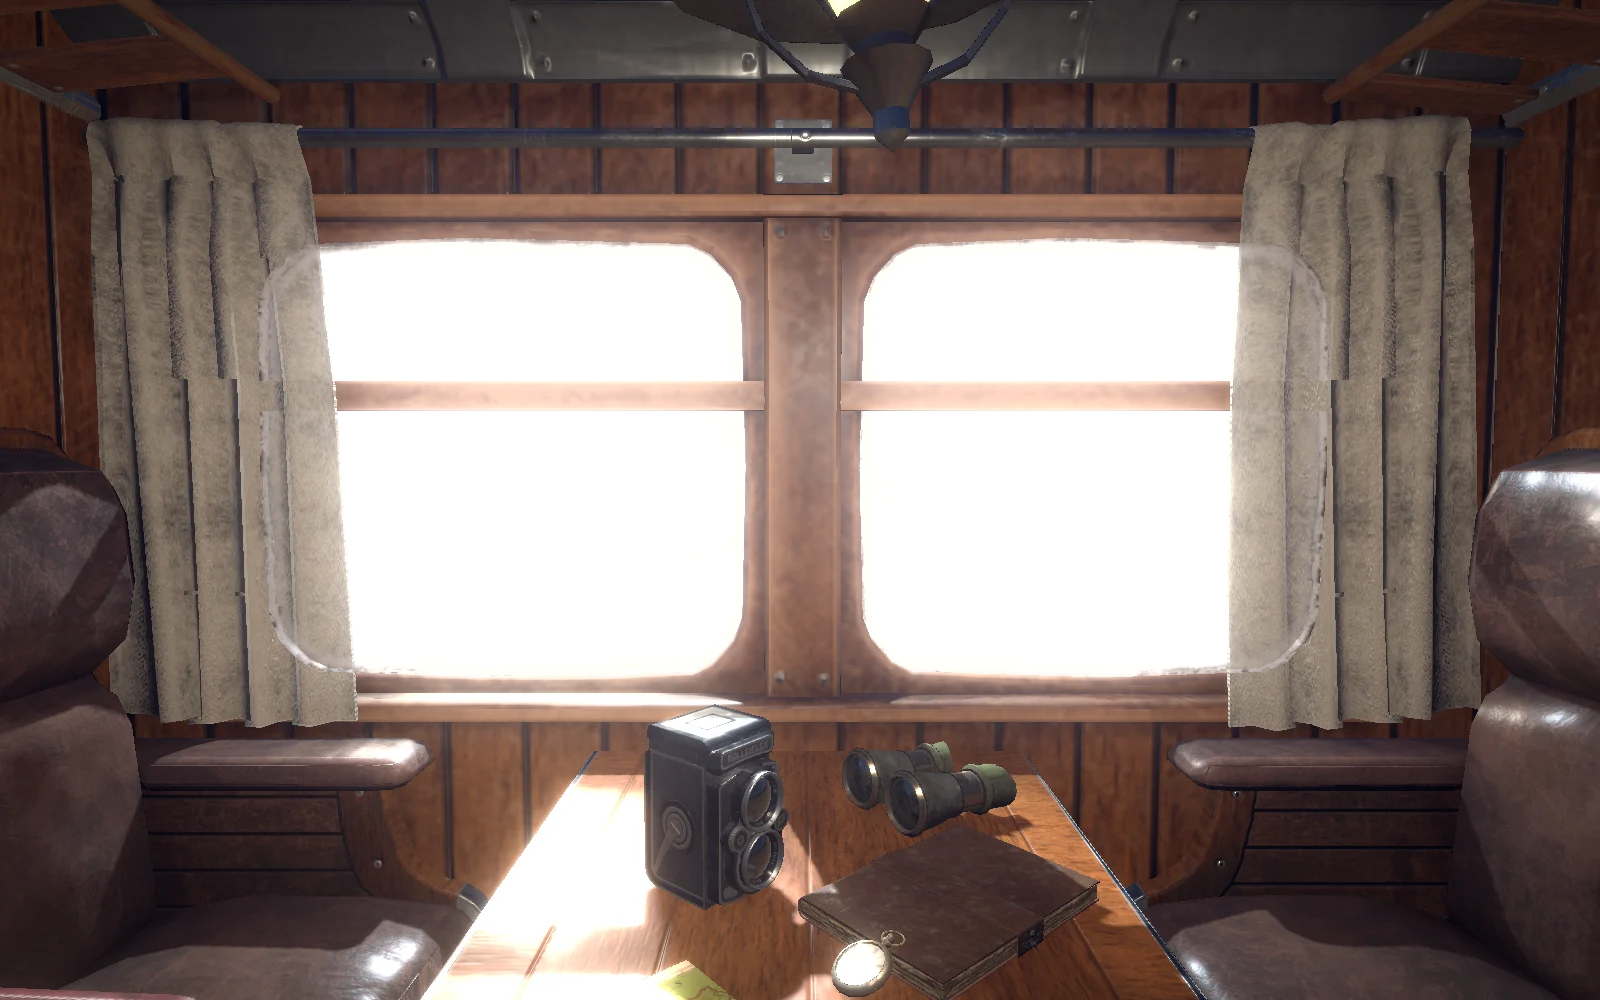
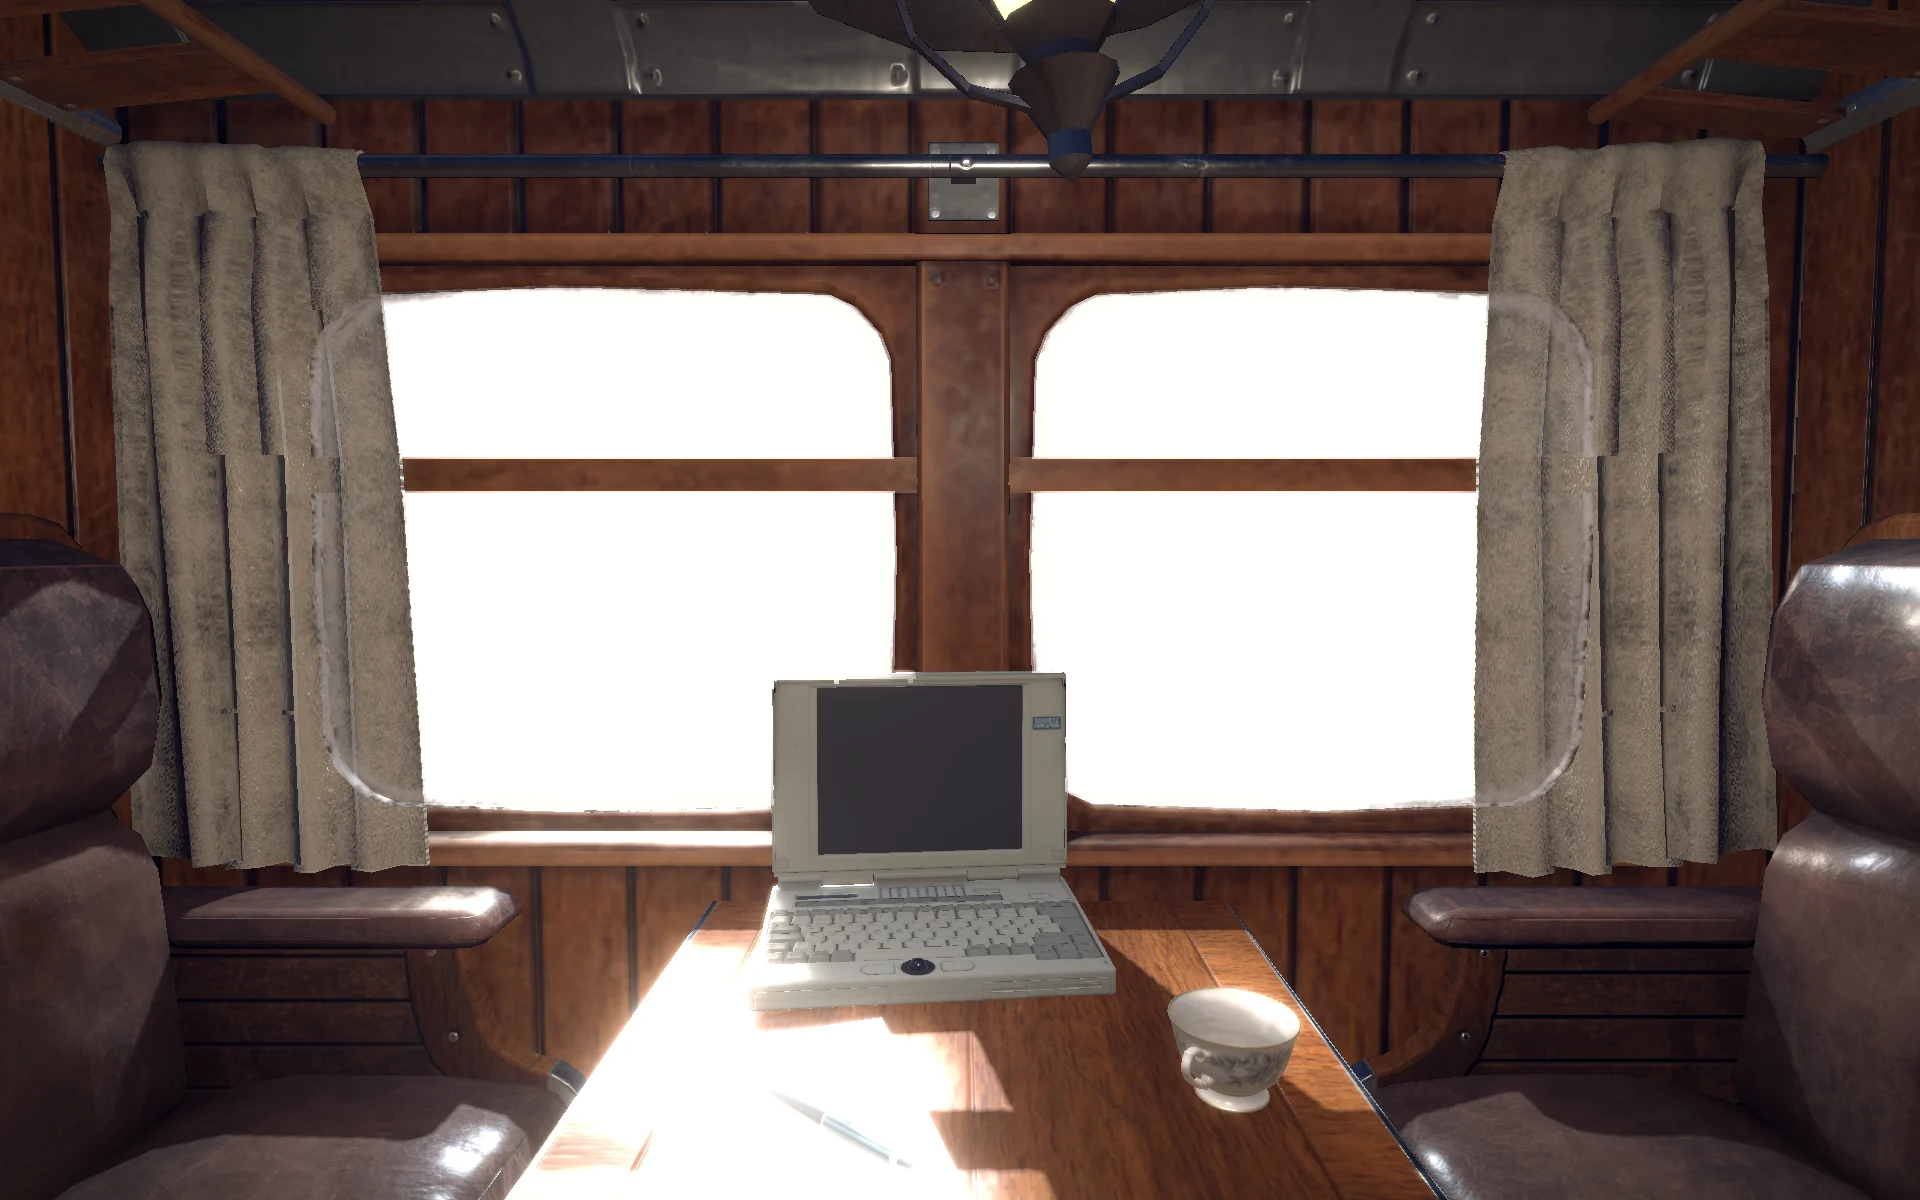
雪国线 ride: on the table a laptop, a cup of coffee with steam rising, a sheet of paper and a pen (Poly Haven, CC0) instead of the camera and binoculars; the curtains solid again (only the glass is see-through)
Claude-Session: https://claude.ai/code/session_01ScX6WKwjvGxQ2unMJchHBc

Changed region(s): [[0.125, 0.124, 0.8438, 1.0], [0.0, 0.961, 0.125, 1.0]]

diff --git a/ride.js b/ride.js
@@ -44,6 +44,21 @@
     } }
   const sc = document.createElement("canvas"), sg = sc.getContext("2d");
 
+  // steam off the coffee: soft puffs rising from the rim, curling, thinning out
+  const CUP = { x: 1027, y: 832 }, puffs = [];
+  const puffImg = document.createElement("canvas"); puffImg.width = puffImg.height = 64;
+  { const p = puffImg.getContext("2d"), gr = p.createRadialGradient(32, 32, 0, 32, 32, 32); gr.addColorStop(0, "rgba(255,255,255,.55)"); gr.addColorStop(.5, "rgba(250,250,248,.2)"); gr.addColorStop(1, "rgba(250,250,248,0)"); p.fillStyle = gr; p.fillRect(0, 0, 64, 64); }
+  let puffT = 0;
+  function steam(dt, t) {
+    puffT -= dt; if (puffT < 0) { puffT = .09; puffs.push({ x: CUP.x + (Math.random() - .5) * 26, y: CUP.y, age: 0, life: 2.6 + Math.random() * 1.4, ph: Math.random() * 6, r: 10 + Math.random() * 6 }); }
+    for (let i = puffs.length - 1; i >= 0; i--) {
+      const p = puffs[i]; p.age += dt; if (p.age > p.life) { puffs.splice(i, 1); continue; }
+      const u = p.age / p.life; p.y -= dt * (34 - 14 * u); p.x += Math.sin(t * 1.6 + p.ph + u * 5) * dt * 16 - dt * 4;
+      const r = p.r * (1 + u * 3.2); g.globalAlpha = Math.sin(Math.PI * Math.min(1, u * 1.2)) * .8 * (1 - u * .5);
+      g.drawImage(puffImg, p.x - r, p.y - r, r * 2, r * 2);
+    }
+    g.globalAlpha = 1;
+  }
   const flakes = Array.from({ length: 140 }, () => ({ x: Math.random() * IW, y: Math.random() * IH, z: .4 + Math.random() * .6 }));
   let W = 0, H = 0, k = 1, ox = 0, oy = 0;
   function fit() {
@@ -72,13 +87,14 @@
       g.globalAlpha = .5 + f.z * .4; g.beginPath(); g.arc(f.x, f.y, 1.2 + f.z * 2.2, 0, 7); g.fill(); }
     g.globalAlpha = 1;
     // the compartment in sun
-    g.drawImage(sun, 0, 0);
+    g.drawImage(sun, 0, 0, IW, IH);
     // the shade, let through where the trees outside block the sun
     sg.setTransform(1, 0, 0, 1, 0, 0); sg.globalCompositeOperation = "source-over"; sg.clearRect(0, 0, W, H);
     sg.setTransform(k, 0, 0, k, ox, oy); sg.globalAlpha = .9;
     const px = -((run * 900) % SW); for (let x = px; x < IW; x += SW) sg.drawImage(pat, x, 0);
-    sg.globalAlpha = 1; sg.globalCompositeOperation = "source-in"; sg.drawImage(shade, 0, 0);
+    sg.globalAlpha = 1; sg.globalCompositeOperation = "source-in"; sg.drawImage(shade, 0, 0, IW, IH);
     g.setTransform(1, 0, 0, 1, 0, 0); g.drawImage(sc, 0, 0);
+    g.setTransform(k, 0, 0, k, ox, oy); steam(dt, now / 1000);
   }
   requestAnimationFrame(frame);
   window.__ride = { set: r => { run = r; vel = 1; }, ready: () => ready };

diff --git a/NOTICE.md b/NOTICE.md
@@ -27,3 +27,5 @@ The 3D carriage in `focus.html` (`carriage.js`, `assets/3d/cabin.glb`) is **"193
 animation removed, textures converted to WebP, the mesh compressed (meshopt). Its lighting and post-processing follow the model's
 own Sketchfab scene settings; `assets/3d/sky_day.hdr` is decoded from Sketchfab's default environment "Gareoult" for that purpose.
 The forest outside the window (`assets/3d/snow_forest.jpg`) is cut from **snowy_forest_path_01** by Poly Haven (CC0).
+
+On the table in the ride still: **classic_laptop**, **tea_set_01** (a cup), **office_notepads** and **stationery_supplies** (a pen), all Poly Haven (CC0).
